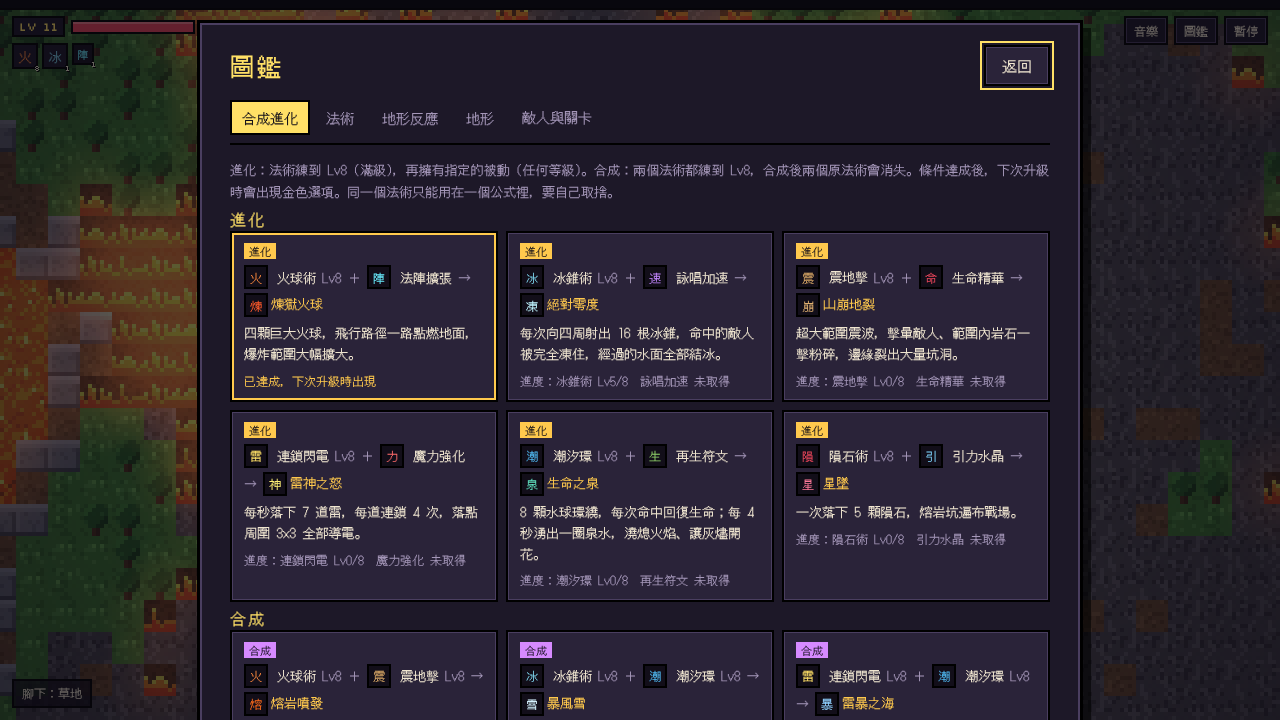
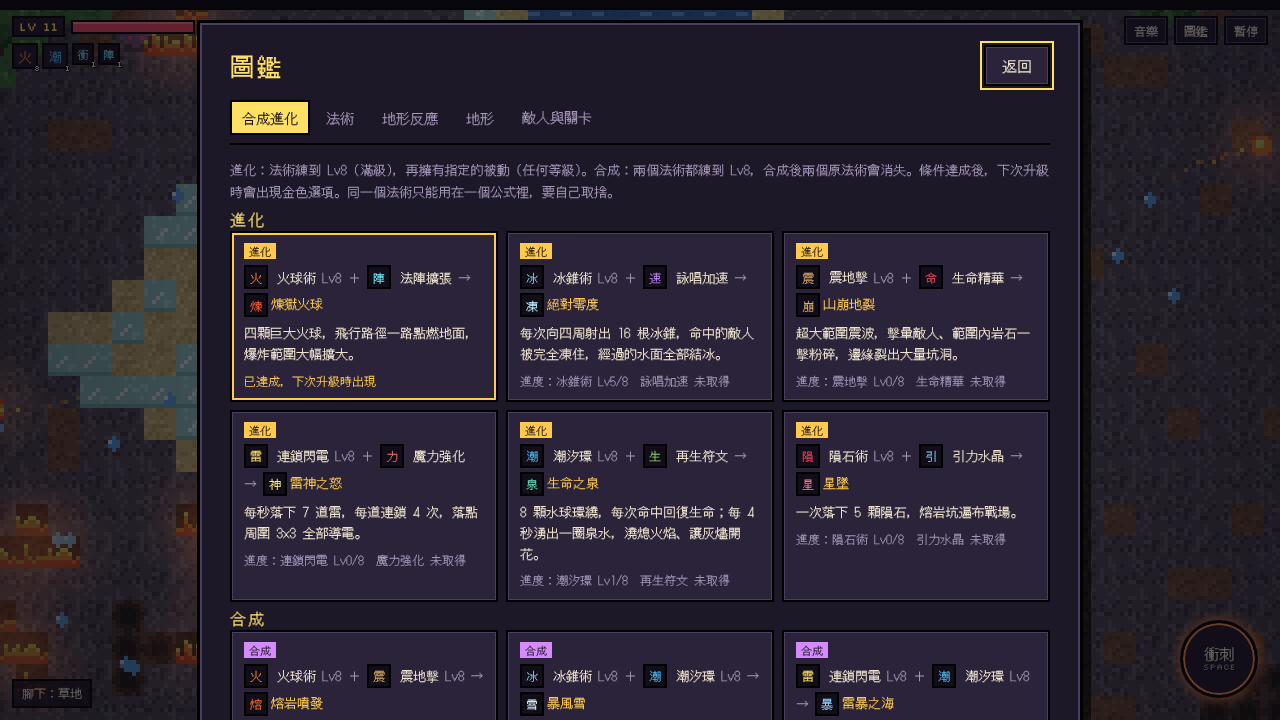
Document element dash, fix damage-number rendering, refresh screenshots
- README: element dash section, controls, terrain tables, formulas
- Draw damage-number shadows before digits so strokes stay readable
- Move the 地形連鎖 counter below the timer
- Screenshots show dash trails and the chain counter

Claude-Session: https://claude.ai/code/session_01MPHFPv1E7a8qYjhwU5G4WP

diff --git a/index.html b/index.html
@@ -55,11 +55,11 @@ body{margin:0;background:var(--ink);color:var(--bone);font-family:var(--f-ui);to
 .tbtn:hover{box-shadow:inset 0 0 0 1px var(--volt)}
 #terrain{position:absolute;left:max(12px,env(safe-area-inset-left,0px));bottom:calc(env(safe-area-inset-bottom,0px) + 12px);font-size:12px;background:rgba(15,12,23,.78);border:2px solid #000;padding:3px 8px}
 
-#chain{position:fixed;left:50%;top:calc(env(safe-area-inset-top,0px) + 70px);transform:translateX(-50%);font-size:22px;color:var(--c,#ffb35c);text-shadow:2px 2px 0 #000,-1px -1px 0 #000;pointer-events:none;z-index:6;white-space:nowrap}
+#chain{position:fixed;left:50%;top:calc(env(safe-area-inset-top,0px) + 92px);transform:translateX(-50%);font-size:22px;color:var(--c,#ffb35c);text-shadow:2px 2px 0 #000,-1px -1px 0 #000;pointer-events:none;z-index:6;white-space:nowrap}
 #chain.pop{animation:chainpop .25s ease-out}
 #chain small{font-size:12px;color:var(--bone);margin-left:6px}
 @keyframes chainpop{0%{transform:translateX(-50%) scale(1.5)}100%{transform:translateX(-50%) scale(1)}}
-#toasts{position:fixed;left:0;right:0;top:calc(env(safe-area-inset-top,0px) + 100px);display:flex;flex-direction:column;align-items:center;gap:4px;pointer-events:none;z-index:6;padding-left:max(16px,env(safe-area-inset-left,0px));padding-right:max(16px,env(safe-area-inset-right,0px))}
+#toasts{position:fixed;left:0;right:0;top:calc(env(safe-area-inset-top,0px) + 128px);display:flex;flex-direction:column;align-items:center;gap:4px;pointer-events:none;z-index:6;padding-left:max(16px,env(safe-area-inset-left,0px));padding-right:max(16px,env(safe-area-inset-right,0px))}
 .toast{background:var(--slab);border:2px solid #000;box-shadow:inset 0 0 0 1px var(--volt);padding:5px 10px;font-size:13px;max-width:100%;animation:toast 3s forwards}
 .toast small{color:var(--volt);margin-right:8px;font-size:11px;letter-spacing:.1em}
 .toast.big{font-size:18px;color:var(--blood);box-shadow:inset 0 0 0 1px var(--blood)}
@@ -670,7 +670,7 @@ const bossTimes=()=>[150,ST().len-60];
 function shake(t,m){if(RM)return;shakeM=shakeT>0?Math.max(shakeM,m):m;shakeT=Math.max(shakeT,t)}
 function part(x,y,vx,vy,life,c,s=1){if(parts.length>700)return;parts.push({x,y,vx,vy,life,max:life,c,s})}
 function burst(x,y,n,cols,sp=40,sz=1){for(let k=0;k<n;k++){const a=R()*TAU,s=sp*(.3+R()*.7);part(x,y,Math.cos(a)*s,Math.sin(a)*s-10,.3+R()*.4,cols[k%cols.length],sz)}}
-function dmgNum(x,y,v,c){if(texts.length>70)return;texts.push({x:x+(R()-.5)*5,y,s:String(Math.max(1,Math.round(v))),c,t:0,max:.6})}
+function dmgNum(x,y,v,c){if(texts.length>40)return;texts.push({x:x+(R()-.5)*5,y,s:String(Math.max(1,Math.round(v))),c,t:0,max:.6})}
 function toast(html,cls){const t=document.createElement('div');t.className='toast'+(cls?' '+cls:'');t.innerHTML=html;const box=$('toasts');box.appendChild(t);while(box.children.length>3)box.firstChild.remove();setTimeout(()=>t.remove(),3000)}
 function disc(k){
   if(state!=='play'||discovered.has(k))return;
@@ -1267,8 +1267,11 @@ function drawTexts(){
   for(const x of texts){
     const k=x.t/x.max,a=k>.65?1-(k-.65)/.35:1,py=Math.round(x.y-cam.y-k*14),px=x.x-cam.x;
     ctx.globalAlpha=a;
-    let ox=Math.round(px-(x.s.length*4-1)/2);
-    for(const ch of x.s){const g=DIG[ch.charCodeAt(0)-48];if(g){for(let i=0;i<15;i++)if(g[i]==='1'){ctx.fillStyle='#000';ctx.fillRect(ox+i%3+1,py+(i/3|0)+1,1,1);ctx.fillStyle=x.c;ctx.fillRect(ox+i%3,py+(i/3|0),1,1)}}ox+=4}
+    // shadow pass first, then the digits, so a shadow never covers a neighbouring stroke
+    for(const pass of [0,1]){
+      let ox=Math.round(px-(x.s.length*4-1)/2)+(pass?0:1);ctx.fillStyle=pass?x.c:'#000';
+      for(const ch of x.s){const g=DIG[ch.charCodeAt(0)-48];if(g)for(let i=0;i<15;i++)if(g[i]==='1')ctx.fillRect(ox+i%3,py+(i/3|0)+(pass?0:1),1,1);ox+=4}
+    }
   }
   ctx.globalAlpha=1;
 }

diff --git a/tools/screenshots.js b/tools/screenshots.js
@@ -22,6 +22,7 @@ require('fs').mkdirSync(OUT,{recursive:true});
         P.hp=P.maxhp*.72;const a=f/170;
         for(const k of ['KeyA','KeyD','KeyW','KeyS'])t.keys[k]=0;
         if(Math.cos(a)>.3)t.keys.KeyD=1;if(Math.cos(a)<-.3)t.keys.KeyA=1;if(Math.sin(a)>.3)t.keys.KeyS=1;if(Math.sin(a)<-.3)t.keys.KeyW=1;
+        if(f%100===0)t.tryDash();
         t.update(1/60);if(f%3===0)t.render();
       }
       for(const k of ['KeyA','KeyD','KeyW','KeyS'])t.keys[k]=0;

diff --git a/README.md b/README.md
@@ -1,6 +1,8 @@
 # 元素荒原 The Waste Land
 
-像素風的倖存者類遊戲（類似《吸血鬼倖存者》）。你放出的每一招都會改寫地形：燒光森林、凍住湖面、震出坑洞。被改過的地形還會彼此碰撞、繼續轉化，例如熔岩流進坑洞、碰到水變成黑曜石，灰燼吸水長出能回血的花。
+像素風的倖存者類遊戲（類似《吸血鬼倖存者》），核心玩法是**地形**。你放出的每一招都會改寫地形：燒光森林、凍住湖面、震出坑洞。被改過的地形還會彼此碰撞、繼續轉化，例如熔岩流進坑洞、碰到水變成黑曜石，灰燼吸水長出能回血的花。
+
+按下**元素衝刺**，你會沿路留下火牆、冰路、壕溝或電場，把敵人引進自己畫好的陷阱。被地形殺死的敵人會多掉經驗，連續擊殺還會觸發「地形連鎖」。
 
 整個遊戲是單一個 `index.html`，沒有任何相依套件，也不需要建置。直接用瀏覽器打開就能玩，手機也可以。
 
@@ -11,6 +13,7 @@
 - [遊戲畫面](#遊戲畫面)
 - [怎麼玩](#怎麼玩)
 - [遊戲內容](#遊戲內容)
+- [元素衝刺](#元素衝刺)
 - [地形反應系統](#地形反應系統)
 - [進化與合成](#進化與合成)
 - [程式架構](#程式架構)
@@ -41,13 +44,15 @@
 |---|---|---|
 | 移動 | `WASD` 或方向鍵 | 按住畫面任意處拖曳 |
 | 攻擊 | 自動施放 | 自動施放 |
-| 暫停 | `Esc` / `Space` / `P` | 右上角「暫停」 |
+| 元素衝刺 | `Space` / `Shift` / `K` | 右下角「衝刺」按鈕 |
+| 暫停 | `Esc` / `P` | 右上角「暫停」 |
 | 升級選擇 | 點選，或按 `1` `2` `3` | 點選 |
 
 1. 在主選單選難度和職業。
-2. 打倒敵人會掉落經驗寶石，撿起來就會升級。每次升級從三張卡裡選一張：新法術、法術升級、被動，或進化／合成。
-3. 撐到關卡時間結束就過關。等級和法術會帶到下一關，進關時回復一半生命。
-4. 撐過四個關卡就全破。
+2. 移動閃避，用元素衝刺劃出陷阱地形，把敵人引過去。
+3. 打倒敵人會掉落經驗寶石，撿起來就會升級。每次升級從三張卡裡選一張：新法術、法術升級、被動，或進化／合成。
+4. 撐到關卡時間結束就過關。等級和法術會帶到下一關，進關時回復一半生命。
+5. 撐過四個關卡就全破。
 
 想在網路上分享遊玩網址：到 repo 的 **Settings → Pages**，來源選 `main` 分支的根目錄。
 
@@ -55,13 +60,13 @@
 
 ### 職業
 
-| 職業 | 起始法術 | 生命 | 特色 |
-|---|---|---|---|
-| 火焰法師 | 火球術 | 90 | 火球爆炸點燃草木、蒸發湖水、把沙燒成玻璃 |
-| 冰霜術士 | 冰錐術 | 95 | 扇形冰錐凍結水面，能鋪出冰橋，也能讓熔岩冷卻 |
-| 大地戰士 | 震地擊 | 140 | 擊碎岩石、震出坑洞；移動稍慢 |
-| 雷電遊俠 | 連鎖閃電 | 90 | 讓整片水域帶電；移動較快 |
-| 潮汐祭司 | 潮汐環 | 105 | 水球環繞、自帶回血；灰燼澆水會開出回血的花 |
+| 職業 | 起始法術 | 衝刺痕跡 | 生命 | 特色 |
+|---|---|---|---|---|
+| 火焰法師 | 火球術 | 火牆 | 90 | 火球爆炸點燃草木、蒸發湖水、把沙燒成玻璃 |
+| 冰霜術士 | 冰錐術 | 冰路 | 95 | 扇形冰錐凍結水面，能鋪出冰橋，也能讓熔岩冷卻 |
+| 大地戰士 | 震地擊 | 壕溝 | 140 | 擊碎岩石、震出坑洞；移動稍慢 |
+| 雷電遊俠 | 連鎖閃電 | 電場 | 90 | 讓整片水域帶電；移動較快 |
+| 潮汐祭司 | 潮汐環 | 水窪 | 105 | 水球環繞、自帶回血；灰燼澆水會開出回血的花 |
 
 ### 關卡
 
@@ -87,9 +92,27 @@
 
 所有聲音都在瀏覽器裡用 Web Audio 即時合成，沒有任何音檔。主選單和四個關卡各有一首 8-bit 風格的曲子，旋律由固定的亂數種子產生。巨像出現或畫面上敵人很多時，鼓點會變密。主選單和暫停畫面可以分別開關音樂和音效。
 
+## 元素衝刺
+
+每個職業都有元素衝刺，冷卻 4 秒。衝刺時你會快速前衝約 6 格，期間無敵，撞到的敵人會被彈開。沿路會留下職業元素的地形：
+
+| 職業 | 痕跡 | 效果 | 消退 |
+|---|---|---|---|
+| 火焰法師 | 火牆 | 灼燒敵人；碰到草木會蔓延；踩過毒沼會引爆 | 燒完變灰燼 |
+| 冰霜術士 | 冰路 | 你跑得更快，敵人打滑並受凍傷；能把熔岩冷卻成黑曜石 | 約 8 秒後融成泥沼 |
+| 大地戰士 | 壕溝 | 敵人跌進坑裡受傷減速；旁邊的水、熔岩、毒液會流進來 | 慢慢回填成泥土 |
+| 雷電遊俠 | 電場 | 電擊敵人；碰到水會讓整片水帶電 | 約 4 秒後熔成玻璃 |
+| 潮汐祭司 | 水窪 | 拖慢敵人；可以再接冰凍、導電；澆熄火焰、讓灰燼變沃土 | 約 7 秒後乾成泥沼 |
+
+衝刺本身也能在升級時強化（最高 Lv5）：痕跡加寬為 3 格 → 冷卻縮短為 3 秒 → 可連續衝刺 2 次 → 痕跡更持久、撞擊造成重擊。
+
+**地形擊殺的獎勵**：被地形（包含毒沼爆炸）殺死的敵人有 60% 機率多掉一顆經驗寶石。1.2 秒內連續的地形擊殺會累積「地形連鎖 ×N」，音效隨連鎖數升高，每 5 連鎖會有短暫停頓。過關和結算畫面會顯示這一局的地形擊殺比例。
+
+被動「地脈共鳴」每級讓地形對敵人的傷害 +25%。
+
 ## 地形反應系統
 
-地形有 20 種，反應有 50 種。轉化分兩個來源：
+地形有 21 種，反應有 59 種。轉化分兩個來源：
 
 - **元素攻擊**：每個法術都帶有一種元素（火、冰、大地、雷、水），打到哪裡就對那一格套用元素。
 - **細胞自動機**：每 0.2 秒掃描畫面附近的格子，鄰近的地形會互相影響。例如火會蔓延、水會流進坑洞、熔岩冷卻。
@@ -124,19 +147,23 @@ flowchart LR
 
 | 地形 | 對你 | 對敵人 |
 |---|---|---|
-| 火焰、蒸氣、帶電水 | 無影響 | 持續傷害 |
+| 火焰、蒸氣、帶電水、電場 | 無影響 | 持續傷害 |
 | 熔岩 | 持續傷害 | 高傷害 |
 | 毒沼 | 輕微傷害、減速 | 傷害、減速 |
-| 水、泥沼、坑洞 | 稍微減速 | 大幅減速 |
-| 冰面、玻璃 | 移動加速 | 冰面上會打滑減速 |
+| 水、泥沼 | 稍微減速 | 大幅減速 |
+| 坑洞 | 幾乎不影響 | 減速並受傷 |
+| 冰面 | 移動加速 | 打滑減速、凍傷 |
+| 玻璃 | 移動加速 | 無 |
 | 花叢 | 每秒回復 4 點生命 | 無 |
 | 岩石、樹木、黑曜石、晶簇 | 擋路 | 擋路（石像魔和巨像會撞碎） |
+
+地形對敵人的傷害會跟著敵人的血量倍率一起成長，所以到了後面的關卡，地形還是一樣致命。
 
 第一次觸發某種反應會跳出提示，並記錄在圖鑑裡。這份紀錄存在瀏覽器裡，下次遊玩還會保留。
 
 ## 進化與合成
 
-法術最高 Lv8，被動最高 Lv5。
+法術最高 Lv8，被動（包含元素衝刺、地脈共鳴）最高 Lv5。
 
 - **進化**：法術 Lv8，加上擁有指定的被動（任何等級）。
 - **合成**：兩個法術都 Lv8，合成後兩個原法術會消失。
@@ -224,6 +251,8 @@ flowchart TB
   end
 
   KB & JOY --> PL
+  KB & JOY --> DASH[元素衝刺 tryDash / dashStep]
+  DASH -- 沿路地形 --> CH
   DEF --> WF & SP & HUD
   TPD --> EL & CA & PL & EN
   GEN --> CH
@@ -271,7 +300,7 @@ stateDiagram-v2
 | `noise` | `hash`、`vnoise`、`fbm`，生成地形用的 value noise |
 | `tiles` | 地形 ID `T`、屬性 `TP`，以及碰撞與移動 `moveEnt`、`blocked` |
 | `difficulty & stages` | `DIFFS`、`STAGES`，各生態區的 `genTile` |
-| `tile atlas` | 把 20 種地形各畫成 3 種變體 × 4 幀動畫，存成一張 atlas |
+| `tile atlas` | 把 21 種地形各畫成 3 種變體 × 4 幀動畫，存成一張 atlas |
 | `sprites` | 用字串陣列定義的像素角色，執行時轉成 canvas（含翻轉、受擊白閃、冰凍色） |
 | `definitions` | 職業、法術、被動、公式、敵人、反應清單 |
 | `audio` | `AU`：音序器、曲子定義、旋律產生、音效 |
@@ -281,7 +310,8 @@ stateDiagram-v2
 | `enemies` | 生怪、AI、卡牆繞路、用網格做的分離 |
 | `main update` | `update`、`common`（特效、粒子、自動機） |
 | `render` | 畫地形、寶石、敵人、玩家、投射物、特效、光暈與色調 |
-| `HUD & screens` | HUD、升級卡、暫停、圖鑑、過關、結算 |
+| `element dash` | 衝刺、沿路地形 `paintDash`、升級衝擊波 `levelWave` |
+| `HUD & screens` | 傷害數字、HUD、衝刺按鈕、連鎖計數、升級卡、暫停、圖鑑、過關、結算 |
 | `input` / `loop` | 鍵盤、觸控搖桿、主迴圈 |
 
 ### 幾個實作重點
@@ -300,10 +330,13 @@ stateDiagram-v2
 | 同時存在上限 | `min(240, 40 + thr × 0.45)` |
 | 敵人血量倍率 | `(1 + thr/130 + 關卡索引 × 0.46) × 難度倍率` |
 | 敵人傷害倍率 | `(1 + thr/520) × 難度倍率`（巨像是 `thr/900`） |
-| 升級所需經驗 | 12 級以前 `1.8 × 等級^2.2`，之後每級 `429 + (等級 − 12) × 80` |
+| 升級所需經驗 | 前 16 級依序是 10, 14, 18, 24, 32, 42, 54, 68, 90, 120, 160, 220, 300, 400, 520, 650，之後每級多 100 |
+| 法術傷害 | 各法術基礎傷害 × `(1 + 0.12 × 魔力強化等級) × 0.85` |
+| 地形對敵人的傷害 | 每秒 `地形傷害 × 敵人血量倍率 × (1 + 0.25 × 地脈共鳴等級)`（火焰 18、熔岩 30、帶電水 26、電場 22、蒸氣 10、毒沼 8、冰面 6、坑洞 6） |
+| 毒沼爆炸 | `28 × 敵人血量倍率 × 地脈共鳴加成` |
 | 經驗寶石拾取範圍 | `36 × (1 + 0.3 × 引力水晶等級)` 像素 |
 
-升級曲線是用自動遊玩機器人實測每關能拿到的經驗量後反推的。目標大約是第一關結束 13 級、第二關 21 級、第三關 28 級、全破 35 級。
+升級曲線是用自動遊玩機器人實測每關能拿到的經驗量後反推的。前兩分鐘大約每 5～10 秒升一級，第一關結束約 12～14 級，之後每一級需要的經驗穩定增加。機器人在普通難度、會使用衝刺的情況下，敵人約有三成是被地形殺死的。
 
 ## 專案結構
 
@@ -335,7 +368,7 @@ node screenshots.js                                 # 更新 README 截圖
 - **職業編號**：0 火焰法師、1 冰霜術士、2 大地戰士、3 雷電遊俠、4 潮汐祭司。
 - **難度編號**：0 簡單、1 普通、2 困難、3 煉獄。
 
-`bot.js` 會閃躲敵人、避開熔岩和毒沼、撿經驗寶石，升級時優先選主法術。它從第一關一路打到第四關，每 30 秒記錄一次等級、血量、敵人數量和法術。倒下時會列出最後 8 秒是被什麼打死的。機器人的操作比真人差，數據適合拿來比較調整前後的差異。
+`bot.js` 會閃躲敵人、避開熔岩和毒沼、撿經驗寶石，被包圍時使用元素衝刺，升級時優先選主法術。它從第一關一路打到第四關，每 30 秒記錄一次等級、血量、敵人數量和法術。倒下時會列出最後 8 秒是被什麼打死的，並統計地形擊殺的比例。機器人的操作比真人差，數據適合拿來比較調整前後的差異。
 
 ## 授權
 
